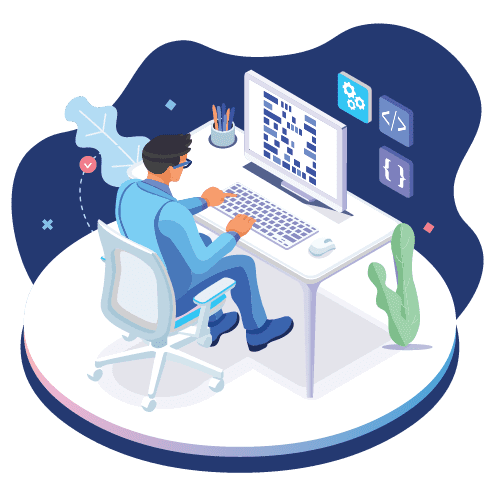
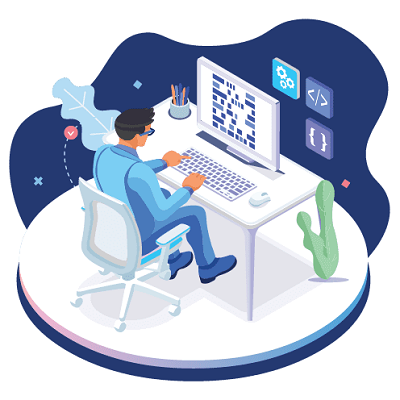
updated

diff --git a/index.html b/index.html
@@ -15,7 +15,6 @@
 <body>
 
     <!-- navbar  -->
-
     <nav class="navbar navbar-expand-lg navbar-light bg-light">
         <div class="container-fluid">
             <a class="navbar-brand" href="#">Sachin Prajapati</a>
@@ -47,18 +46,23 @@
         </div>
     </nav>
 
-    <!-- home section  -->
-
-    <div class="container-fluid" id="home">
-        <div class="heading m-0 p-0">
-            <div class="">Hello, I'm </div>
-            <div class="name">Sachin Prajapati </div>
-            <div class="m-0 p-0 "> <span class="type m-0 p-0"></span> </div>
-            <div class="btn-box">
-                <a class="btn btn-success" href="mailto:sachinprajapati599@gmail.com">Hire Me</a>
+    <!-- landing page  -->
+    <div class="container" id="">
+        <div class="row">
+            <div class="col-md-6 order-2 order-lg-1">
+                <div class="heading">
+                    <div class="">Hello, I'm </div>
+                    <div class="name">Sachin Prajapati </div>
+                    <div class="m-0 p-0 "> <span class="type m-0 p-0"></span> </div>
+                    <div class="btn-box">
+                        <a class="btn" href="mailto:sachinprajapati599@gmail.com">Hire Me</a>
+                    </div>
+                </div>
+            </div>
+            <div class="col-md-6 order-1 order-lg-2 img-col">
+                <img src="img/v1.jpg" alt="" width="100%">
             </div>
         </div>
-
     </div>
 
     <!-- cdn for auto typing -->
@@ -97,7 +101,7 @@
                     certificates in Java, Python, C, PHP, Html, CSS, javascript, Bootstrap. I am working regularly to
                     update myself with the new era of Computer science.</p>
                 <div class="btn-box">
-                    <a class="btn btn-success" href="mailto:sachinprajapati599@gmail.com">Hire Me</a>
+                    <a class="btn " href="mailto:sachinprajapati599@gmail.com">Hire Me</a>
                 </div>
             </div>
         </div>

diff --git a/style.css b/style.css
@@ -24,29 +24,13 @@ body {
   margin-top: 80px;
   margin-bottom: 50px;
 }
-#home {
-  background-image: url(img/v2.jpg);
-  background-size: cover;
-  background-repeat: no-repeat;
-  height: 100vh;
-  color: #fff;
-  color: #000;
-  position: relative;
-  /* background: #11998e; 
-  background: linear-gradient(
-    to top,
-    #38ef7d,
-    #11998e
-  );  */
-}
+
 .type {
   margin: 0;
-  font-size: 2.5rem;
+ font-size: 2.4rem;
 }
 .heading {
-  position: absolute;
-  top: 10%;
-  left: 5%;
+  padding-top: 50px;
   font-size: 5rem;
 }
 .heading > div {
@@ -57,6 +41,21 @@ body {
   font-weight: 700;
   font-size: 5rem;
 }
+
+/* landing page image up down animation  */
+.img-col{
+  animation: up-down 2s ease-in-out infinite alternate-reverse both;
+}
+
+@keyframes up-down {
+  0%{
+    transform: translateY(5px);
+  }
+  100%{
+    transform: translateY(-5px);
+  }
+}
+
 .img-box img {
   width: 100%;
   height: 25rem;
@@ -76,10 +75,20 @@ body {
 }
 
 .btn-box .btn {
-  font-size: 1.5rem;
-  padding: 15px;
+  font-weight: 500;
+  font-size: 18px;
+  letter-spacing: 1px;
+  display: inline-block;
+  padding: 10px 30px;
+  border-radius: 50px;
+  transition: 0.5s;
+  color: #ff4600;
+  border: 2px solid #ff4600;
+  text-decoration: none;
+}
+.btn:hover{
   background: #ff4600;
-  background: linear-gradient(to right, #ffba00, #ff4600);
+  color: #fff;
 }
 
 .__h1 {
@@ -263,13 +272,10 @@ body {
 /* //footer css end  */
 
 @media screen and (max-width: 600px) {
-  #home {
-    height: 70vh;
-  }
+  
   .heading {
     font-size: 2rem;
-    left: 10%;
-    top: 30%;
+    padding: 10px;
   }
   .heading .name {
     font-size: 2.4rem;
@@ -279,6 +285,9 @@ body {
   }
   .type {
     font-size: 1.2rem;
+  }
+  .btn-box{
+    margin-top: 20px;
   }
   .img-box,
   .content-box {
